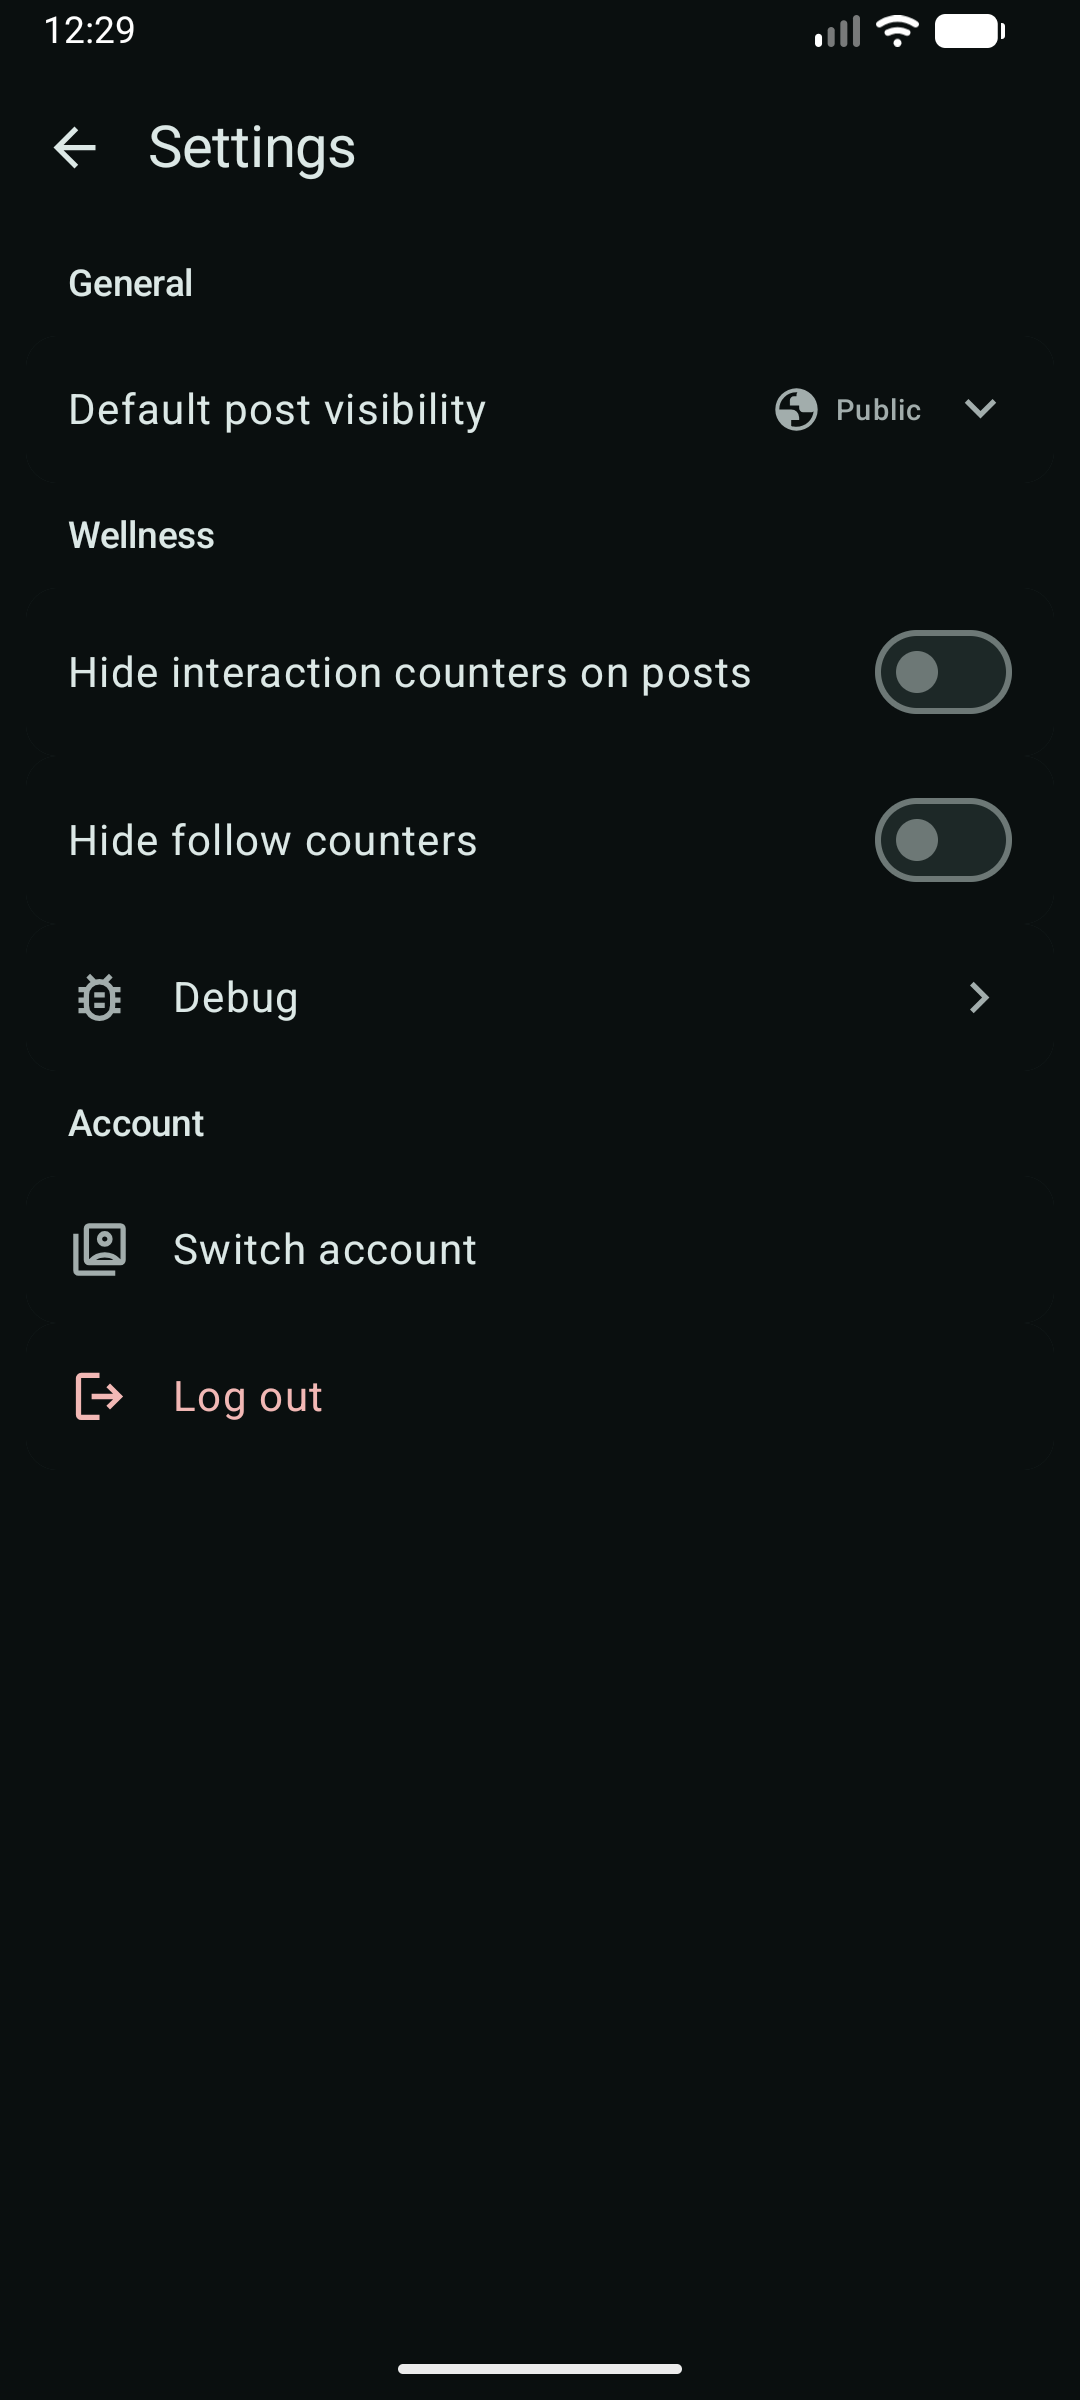
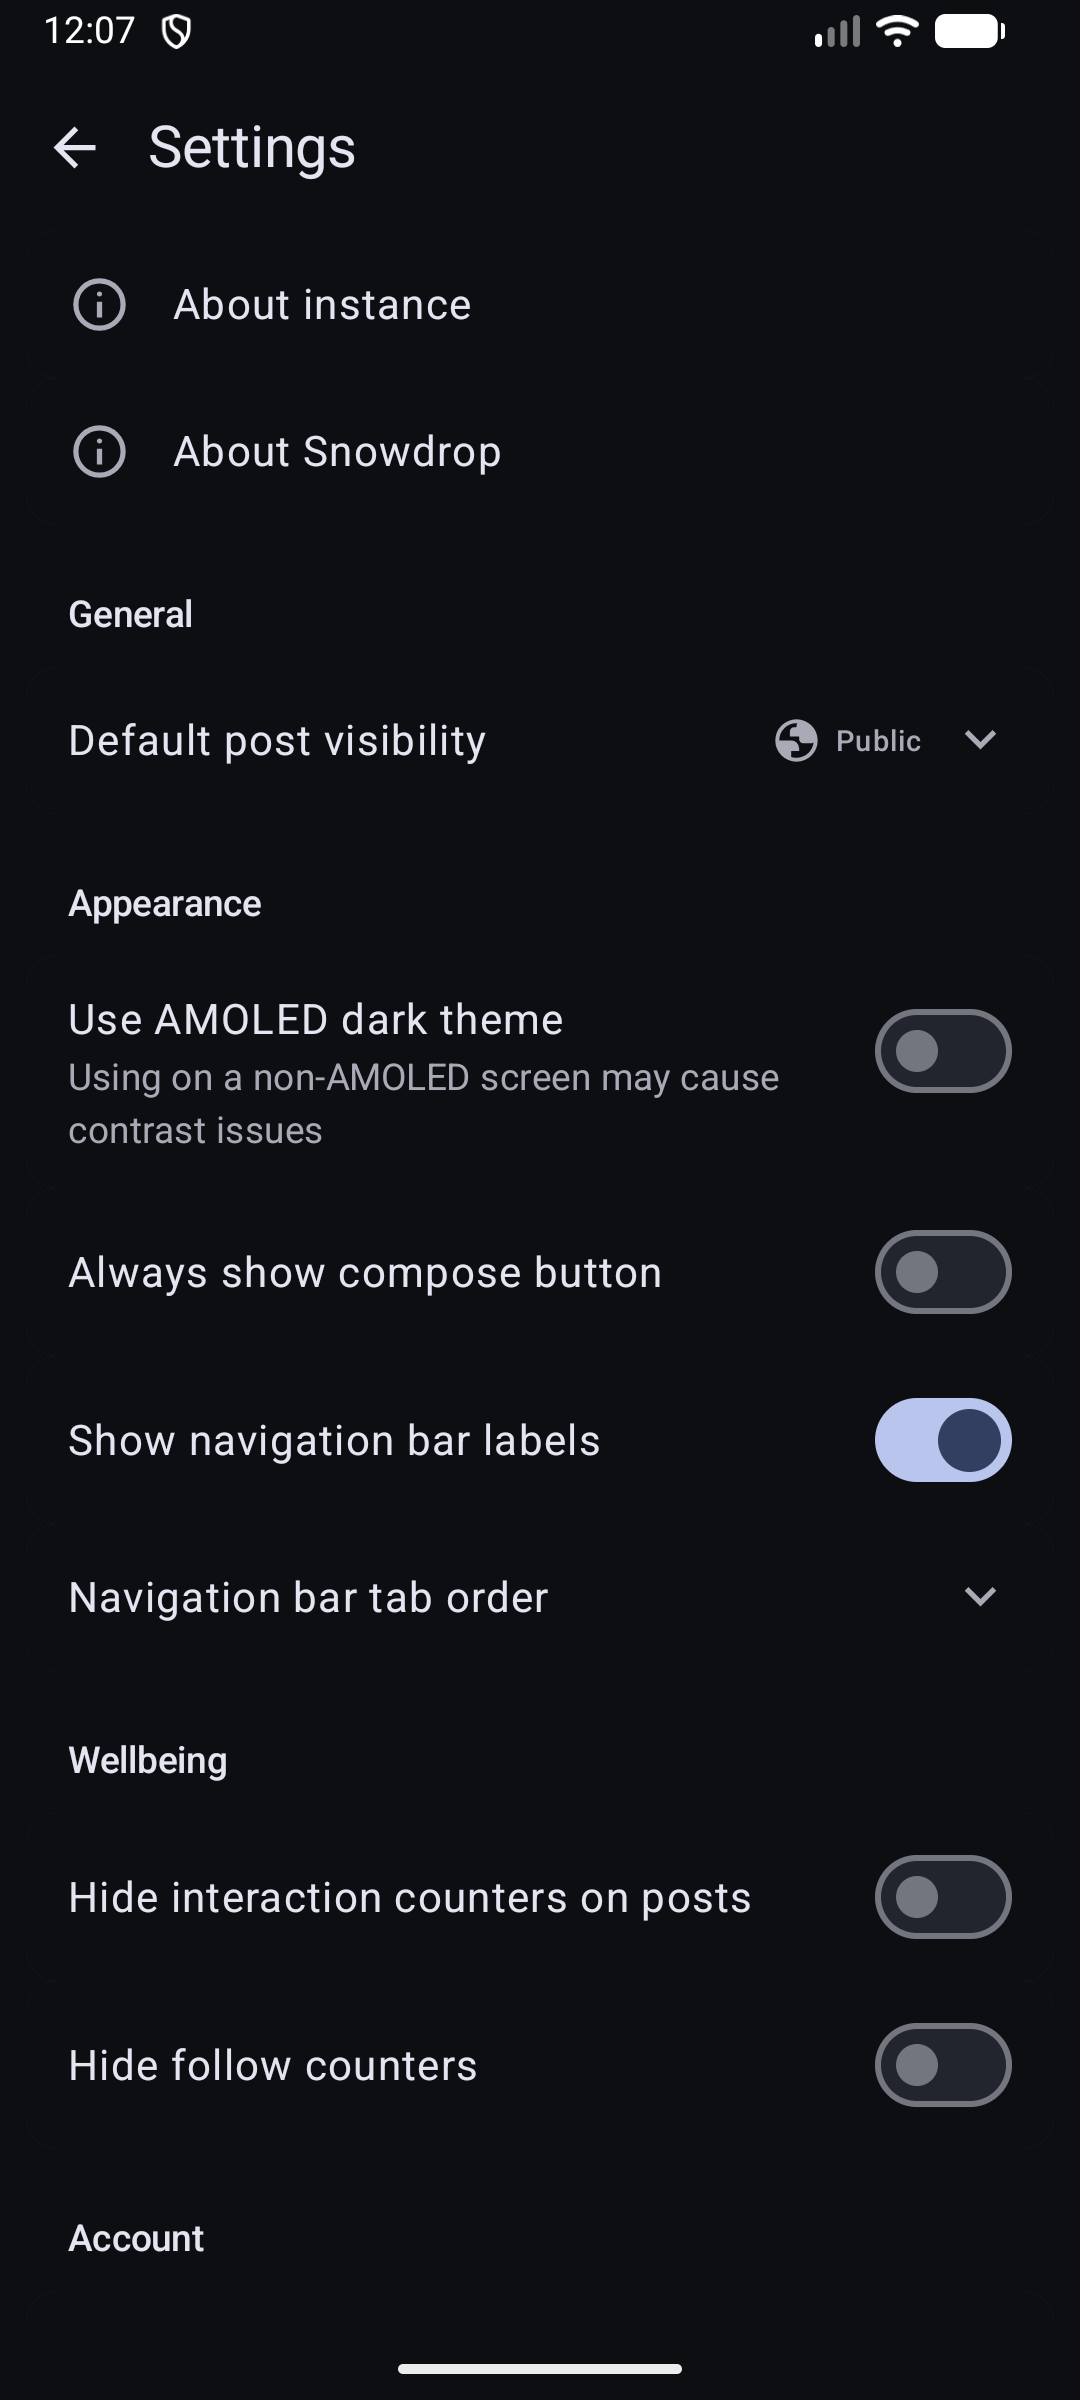
Adopt AccountRow in more places for consistency, update readme screenshots, hide keyboard when search made

diff --git a/shared/src/commonMain/kotlin/site/remlit/snowdrop/component/AccountRow.kt b/shared/src/commonMain/kotlin/site/remlit/snowdrop/component/AccountRow.kt
@@ -14,30 +14,56 @@ import androidx.compose.ui.Alignment
 import androidx.compose.ui.Modifier
 import androidx.compose.ui.text.font.FontWeight
 import androidx.compose.ui.unit.dp
+import androidx.compose.ui.unit.sp
 import site.remlit.snowdrop.ProfileRoute
 import site.remlit.snowdrop.model.Account
 import site.remlit.snowdrop.util.LocalNavController
 
 @Composable
-fun AccountRow(account: Account) {
+fun AccountRow(
+	account: Account,
+	navigateToProfileOnClick: Boolean = true,
+	includeHorizontalDivider: Boolean = true,
+	onClick: (() -> Unit)? = null,
+	leadingContent: @Composable () -> Unit = {},
+	trailingContent: @Composable () -> Unit = {},
+	modifier: Modifier = Modifier
+) {
 	val navHandler = LocalNavController.current
 
 	Row(
-		modifier = Modifier.clickable(onClick = { navHandler.navigate(ProfileRoute(account.id)) })
-			.padding(10.dp)
+		modifier = modifier.let {
+			if (onClick != null || navigateToProfileOnClick) it.clickable {
+				if (navigateToProfileOnClick) navHandler.navigate(ProfileRoute(account.id))
+				if (onClick != null) onClick()
+			} else it
+		}.padding(10.dp)
 			.fillMaxWidth(),
 		horizontalArrangement = Arrangement.spacedBy(10.dp),
 		verticalAlignment = Alignment.CenterVertically
 	) {
+		leadingContent()
+
 		Avatar(account)
 
 		Column {
-			Text(account.displayName(), fontWeight = FontWeight.Medium)
-			Text("@${account.acct}")
+			Text(
+				account.displayName(),
+				fontWeight = FontWeight.Medium
+			)
+			Text(
+				"@${account.acct}",
+				color = MaterialTheme.colorScheme.onSurfaceVariant,
+				fontSize = 13.sp,
+			)
 		}
+
+		trailingContent()
 	}
-	HorizontalDivider(
-		thickness = 1.dp,
-		color = MaterialTheme.colorScheme.surfaceContainer
-	)
+
+	if (includeHorizontalDivider)
+		HorizontalDivider(
+			thickness = 1.dp,
+			color = MaterialTheme.colorScheme.surfaceContainer
+		)
 }

diff --git a/shared/src/commonMain/kotlin/site/remlit/snowdrop/App.kt b/shared/src/commonMain/kotlin/site/remlit/snowdrop/App.kt
@@ -55,8 +55,8 @@ import io.ktor.http.Url
 import kotlinx.serialization.Serializable
 import org.jetbrains.compose.resources.painterResource
 import org.jetbrains.compose.resources.stringResource
+import site.remlit.snowdrop.component.AccountRow
 import site.remlit.snowdrop.component.AppTheme
-import site.remlit.snowdrop.component.Avatar
 import site.remlit.snowdrop.component.navigationBar.NavigationBarIcon
 import site.remlit.snowdrop.component.navigationBar.NavigationBarLabel
 import site.remlit.snowdrop.util.ExternalUriHandler
@@ -74,7 +74,6 @@ import site.remlit.snowdrop.util.setupAppSettings
 import site.remlit.snowdrop.util.cache.setupCache
 import site.remlit.snowdrop.util.config.kamelConfig
 import site.remlit.snowdrop.util.defaultNavigationBarOrder
-import site.remlit.snowdrop.util.getAccountHost
 import site.remlit.snowdrop.util.getAccountObjectFlow
 import site.remlit.snowdrop.util.getAccounts
 import site.remlit.snowdrop.util.getNavigationBarOrder
@@ -298,8 +297,10 @@ fun App() = safe {
 											.clip(RoundedCornerShape(10.dp))
 											.fillMaxWidth()
 											.clickable {
-												if (it != getCurrentAccountId())
+												if (it != getCurrentAccountId()) {
 													switchAccount(it, navController)
+													showAccountSwitcher = false
+												}
 											},
 										colors = CardDefaults.cardColors(
 											containerColor = if (getCurrentAccountId() == it)
@@ -310,21 +311,11 @@ fun App() = safe {
 											else MaterialTheme.colorScheme.onSurface,
 										)
 									) {
-										Row(
-											modifier = Modifier.padding(10.dp),
-											horizontalArrangement = Arrangement.spacedBy(10.dp),
-											verticalAlignment = Alignment.CenterVertically
-										) {
-											Avatar(account!!)
-
-											Column {
-												Text(
-													account!!.displayName(),
-													fontWeight = FontWeight.Medium
-												)
-												Text("@${account!!.username}@${getAccountHost(it)}")
-											}
-										}
+										AccountRow(
+											account!!,
+											navigateToProfileOnClick = false,
+											includeHorizontalDivider = false
+										)
 									}
 								}
 							}

diff --git a/shared/src/commonMain/kotlin/site/remlit/snowdrop/view/ExploreView.kt b/shared/src/commonMain/kotlin/site/remlit/snowdrop/view/ExploreView.kt
@@ -7,7 +7,6 @@ import androidx.compose.foundation.layout.fillMaxSize
 import androidx.compose.foundation.layout.fillMaxWidth
 import androidx.compose.foundation.layout.padding
 import androidx.compose.foundation.shape.RoundedCornerShape
-import androidx.compose.foundation.text.BasicTextField
 import androidx.compose.foundation.text.KeyboardActions
 import androidx.compose.foundation.text.KeyboardOptions
 import androidx.compose.material3.ExperimentalMaterial3Api
@@ -15,14 +14,11 @@ import androidx.compose.material3.Icon
 import androidx.compose.material3.IconButton
 import androidx.compose.material3.MaterialTheme
 import androidx.compose.material3.PrimaryTabRow
-import androidx.compose.material3.SearchBar
-import androidx.compose.material3.SearchBarDefaults
 import androidx.compose.material3.Tab
 import androidx.compose.material3.Text
 import androidx.compose.material3.TextField
 import androidx.compose.material3.TextFieldDefaults
 import androidx.compose.material3.TopAppBar
-import androidx.compose.material3.rememberSearchBarState
 import androidx.compose.runtime.Composable
 import androidx.compose.runtime.LaunchedEffect
 import androidx.compose.runtime.getValue
@@ -88,7 +84,7 @@ fun ExploreView(immediateFocus: Boolean = false) = ViewSurface {
 		value = query,
 		onValueChange = { query = it },
 		keyboardOptions = KeyboardOptions(imeAction = ImeAction.Search),
-		keyboardActions = KeyboardActions(onSearch = { showResults = true; refreshKey++ }),
+		keyboardActions = KeyboardActions(onSearch = { showResults = true; keyboardController?.hide(); refreshKey++ }),
 
 		placeholder = { Text(stringResource(Res.string.search_for_posts_or_users)) },
 		leadingIcon = { Icon(painterResource(Res.drawable.icon_search_24px), null) },

diff --git a/README.md b/README.md
@@ -18,6 +18,9 @@ Uses Material 3 (supporting dynamic color schemes) for UI and icons.
 
 <div style="display: flex; align-content: center; gap: 10px;">
 	<img src=".github/assets/timeline.png" height="250px">
+	<img src=".github/assets/filtered_notifications.png" height="250px">
+	<img src=".github/assets/post_search.png" height="250px">
+	<img src=".github/assets/user_search.png" height="250px">
 	<img src=".github/assets/settings.png" height="250px">
 	<img src=".github/assets/account_switcher.png" height="250px">
 	<img src=".github/assets/profile_top.png" height="250px">

diff --git a/CHANGELOG.md b/CHANGELOG.md
@@ -11,10 +11,12 @@
 - Broken avatars now show an icon to indicate they are broken rather than taking a long time to load
 - Setting to always show compose button regardless of scroll direction
 - Setting to hide navigation bar labels
+- Adopt AccountRow in more places for consistency
 
 ### Fixed
 - Awkward naming of SnackbarController, renamed it LocalSnackbarController
 - Spacing of timeline header icon to be more consistent with navigation icons
+- Hide account switcher after selecting an account
 
 ## [0.0.4-alpha] - 2026/07/19
 